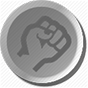
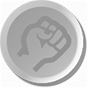
Add hover images on touch controls

diff --git a/src/client/lib/screen/training.js b/src/client/lib/screen/training.js
@@ -90,7 +90,7 @@ TrainingScreen.prototype.loadTouchControls = function () {
 
 	this.moveLeftButton = new Button({
 		image: './img/controls/left.png',
-		hoverImage: './img/controls/left.png',
+		hoverImage: './img/controls/left_hover.png',
 		location: function() {
 			var height = self.moveLeftButton.getActiveImage().height;
 			var width = self.moveLeftButton.getActiveImage().width;
@@ -100,24 +100,27 @@ TrainingScreen.prototype.loadTouchControls = function () {
 		},
 		touchStartEvent: function () {
 			moveLeftHandler.start();
+			self.moveLeftButton.setActiveImage(self.moveLeftButton.getHoverImage());
 		},
 		touchEndEvent: function () {
 			moveLeftHandler.stop();
 			InputCollection.onKeyup({
 				keyCode: keys.LEFT
 			});
+			self.moveLeftButton.setActiveImage(self.moveLeftButton.getImage());
 		},
 		touchResetEvent: function () {
 			moveLeftHandler.stop();
 			InputCollection.onKeyup({
 				keyCode: keys.LEFT
 			});
+			self.moveLeftButton.setActiveImage(self.moveLeftButton.getImage());
 		}
 	});
 
 	this.moveRightButton = new Button({
 		image: './img/controls/right.png',
-		hoverImage: './img/controls/right.png',
+		hoverImage: './img/controls/right_hover.png',
 		location: function() {
 			var relativeWidth = self.moveLeftButton.getActiveImage().width;
 			var location = self.moveLeftButton.getLocation();
@@ -128,24 +131,27 @@ TrainingScreen.prototype.loadTouchControls = function () {
 		},
 		touchStartEvent: function () {
 			moveRightHandler.start();
+			self.moveRightButton.setActiveImage(self.moveRightButton.getHoverImage());
 		},
 		touchEndEvent: function () {
 			moveRightHandler.stop();
 			InputCollection.onKeyup({
 				keyCode: keys.RIGHT
 			});
+			self.moveRightButton.setActiveImage(self.moveRightButton.getImage());
 		},
 		touchResetEvent: function () {
 			moveRightHandler.stop();
 			InputCollection.onKeyup({
 				keyCode: keys.RIGHT
 			});
+			self.moveRightButton.setActiveImage(self.moveRightButton.getImage());
 		}
 	});
 
 	this.defendButton = new Button({
 		image: './img/controls/defend.png',
-		hoverImage: './img/controls/defend.png',
+		hoverImage: './img/controls/defend_hover.png',
 		location: function() {
 			var relativeHeight = self.moveLeftButton.getActiveImage().height;
 			var location = self.moveLeftButton.getLocation();
@@ -156,24 +162,27 @@ TrainingScreen.prototype.loadTouchControls = function () {
 		},
 		touchStartEvent: function () {
 			defendHandler.start();
+			self.defendButton.setActiveImage(self.defendButton.getHoverImage());
 		},
 		touchEndEvent: function () {
 			defendHandler.stop();
 			InputCollection.onKeyup({
 				keyCode: keys.DEFEND
 			});
+			self.defendButton.setActiveImage(self.defendButton.getImage());
 		},
 		touchResetEvent: function () {
 			defendHandler.stop();
 			InputCollection.onKeyup({
 				keyCode: keys.DEFEND
 			});
+			self.defendButton.setActiveImage(self.defendButton.getImage());
 		}
 	});
 
 	this.jumpButton = new Button({
 		image: './img/controls/jump.png',
-		hoverImage: './img/controls/jump.png',
+		hoverImage: './img/controls/jump_hover.png',
 		location: function() {
 			var relativeHeight = self.kickButton.getActiveImage().height;
 			var width = self.jumpButton.getActiveImage().width;
@@ -187,20 +196,23 @@ TrainingScreen.prototype.loadTouchControls = function () {
 			InputCollection.onKeydown({
 				keyCode: keys.JUMP
 			});
+			self.jumpButton.setActiveImage(self.jumpButton.getHoverImage());
 		},
 		touchEndEvent: function () {
 			InputCollection.onKeyup({
 				keyCode: keys.JUMP
 			});
+			self.jumpButton.setActiveImage(self.jumpButton.getImage());
 		},
 		touchResetEvent: function () {
 			InputCollection.pressed[keys.JUMP] = false;
+			self.jumpButton.setActiveImage(self.jumpButton.getImage());
 		}
 	});
 
 	this.punchButton = new Button({
 		image: './img/controls/punch.png',
-		hoverImage: './img/controls/punch.png',
+		hoverImage: './img/controls/punch_hover.png',
 		location: function() {
 			var relativeHeight = self.kickButton.getActiveImage().height;
 			var location = self.kickButton.getLocation();
@@ -213,20 +225,23 @@ TrainingScreen.prototype.loadTouchControls = function () {
 			InputCollection.onKeydown({
 				keyCode: keys.PUNCH
 			});
+			self.punchButton.setActiveImage(self.punchButton.getHoverImage());
 		},
 		touchEndEvent: function () {
 			InputCollection.onKeyup({
 				keyCode: keys.PUNCH
 			});
+			self.punchButton.setActiveImage(self.punchButton.getImage());
 		},
 		touchResetEvent: function () {
 			InputCollection.pressed[keys.PUNCH] = false;
+			self.punchButton.setActiveImage(self.punchButton.getImage());
 		}
 	});
 
 	this.kickButton = new Button({
 		image: './img/controls/kick.png',
-		hoverImage: './img/controls/kick.png',
+		hoverImage: './img/controls/kick_hover.png',
 		location: function() {
 			var height = self.kickButton.getActiveImage().height;
 			var width = self.kickButton.getActiveImage().width;
@@ -238,14 +253,17 @@ TrainingScreen.prototype.loadTouchControls = function () {
 			InputCollection.onKeydown({
 				keyCode: keys.KICK
 			});
+			self.kickButton.setActiveImage(self.kickButton.getHoverImage());
 		},
 		touchEndEvent: function () {
 			InputCollection.onKeyup({
 				keyCode: keys.KICK
 			});
+			self.kickButton.setActiveImage(self.kickButton.getImage());
 		},
 		touchResetEvent: function () {
 			InputCollection.pressed[keys.KICK] = false;
+			self.kickButton.setActiveImage(self.kickButton.getImage());
 		}
 	});
 };

diff --git a/src/client/lib/screen/stage.js b/src/client/lib/screen/stage.js
@@ -196,7 +196,7 @@ StageScreen.prototype.loadTouchControls = function () {
 
 	this.moveLeftButton = new Button({
 		image: './img/controls/left.png',
-		hoverImage: './img/controls/left.png',
+		hoverImage: './img/controls/left_hover.png',
 		location: function() {
 			var height = self.moveLeftButton.getActiveImage().height;
 			var width = self.moveLeftButton.getActiveImage().width;
@@ -206,24 +206,27 @@ StageScreen.prototype.loadTouchControls = function () {
 		},
 		touchStartEvent: function () {
 			moveLeftHandler.start();
+			self.moveLeftButton.setActiveImage(self.moveLeftButton.getHoverImage());
 		},
 		touchEndEvent: function () {
 			moveLeftHandler.stop();
 			InputCollection.onKeyup({
 				keyCode: keys.LEFT
 			});
+			self.moveLeftButton.setActiveImage(self.moveLeftButton.getImage());
 		},
 		touchResetEvent: function () {
 			moveLeftHandler.stop();
 			InputCollection.onKeyup({
 				keyCode: keys.LEFT
 			});
+			self.moveLeftButton.setActiveImage(self.moveLeftButton.getImage());
 		}
 	});
 
 	this.moveRightButton = new Button({
 		image: './img/controls/right.png',
-		hoverImage: './img/controls/right.png',
+		hoverImage: './img/controls/right_hover.png',
 		location: function() {
 			var relativeWidth = self.moveLeftButton.getActiveImage().width;
 			var location = self.moveLeftButton.getLocation();
@@ -234,24 +237,27 @@ StageScreen.prototype.loadTouchControls = function () {
 		},
 		touchStartEvent: function () {
 			moveRightHandler.start();
+			self.moveRightButton.setActiveImage(self.moveRightButton.getHoverImage());
 		},
 		touchEndEvent: function () {
 			moveRightHandler.stop();
 			InputCollection.onKeyup({
 				keyCode: keys.RIGHT
 			});
+			self.moveRightButton.setActiveImage(self.moveRightButton.getImage());
 		},
 		touchResetEvent: function () {
 			moveRightHandler.stop();
 			InputCollection.onKeyup({
 				keyCode: keys.RIGHT
 			});
+			self.moveRightButton.setActiveImage(self.moveRightButton.getImage());
 		}
 	});
 
 	this.defendButton = new Button({
 		image: './img/controls/defend.png',
-		hoverImage: './img/controls/defend.png',
+		hoverImage: './img/controls/defend_hover.png',
 		location: function() {
 			var relativeHeight = self.moveLeftButton.getActiveImage().height;
 			var location = self.moveLeftButton.getLocation();
@@ -262,24 +268,27 @@ StageScreen.prototype.loadTouchControls = function () {
 		},
 		touchStartEvent: function () {
 			defendHandler.start();
+			self.defendButton.setActiveImage(self.defendButton.getHoverImage());
 		},
 		touchEndEvent: function () {
 			defendHandler.stop();
 			InputCollection.onKeyup({
 				keyCode: keys.DEFEND
 			});
+			self.defendButton.setActiveImage(self.defendButton.getImage());
 		},
 		touchResetEvent: function () {
 			defendHandler.stop();
 			InputCollection.onKeyup({
 				keyCode: keys.DEFEND
 			});
+			self.defendButton.setActiveImage(self.defendButton.getImage());
 		}
 	});
 
 	this.jumpButton = new Button({
 		image: './img/controls/jump.png',
-		hoverImage: './img/controls/jump.png',
+		hoverImage: './img/controls/jump_hover.png',
 		location: function() {
 			var relativeHeight = self.kickButton.getActiveImage().height;
 			var width = self.jumpButton.getActiveImage().width;
@@ -293,20 +302,23 @@ StageScreen.prototype.loadTouchControls = function () {
 			InputCollection.onKeydown({
 				keyCode: keys.JUMP
 			});
+			self.jumpButton.setActiveImage(self.jumpButton.getHoverImage());
 		},
 		touchEndEvent: function () {
 			InputCollection.onKeyup({
 				keyCode: keys.JUMP
 			});
+			self.jumpButton.setActiveImage(self.jumpButton.getImage());
 		},
 		touchResetEvent: function () {
 			InputCollection.pressed[keys.JUMP] = false;
+			self.jumpButton.setActiveImage(self.jumpButton.getImage());
 		}
 	});
 
 	this.punchButton = new Button({
 		image: './img/controls/punch.png',
-		hoverImage: './img/controls/punch.png',
+		hoverImage: './img/controls/punch_hover.png',
 		location: function() {
 			var relativeHeight = self.kickButton.getActiveImage().height;
 			var location = self.kickButton.getLocation();
@@ -319,20 +331,23 @@ StageScreen.prototype.loadTouchControls = function () {
 			InputCollection.onKeydown({
 				keyCode: keys.PUNCH
 			});
+			self.punchButton.setActiveImage(self.punchButton.getHoverImage());
 		},
 		touchEndEvent: function () {
 			InputCollection.onKeyup({
 				keyCode: keys.PUNCH
 			});
+			self.punchButton.setActiveImage(self.punchButton.getImage());
 		},
 		touchResetEvent: function () {
 			InputCollection.pressed[keys.PUNCH] = false;
+			self.punchButton.setActiveImage(self.punchButton.getImage());
 		}
 	});
 
 	this.kickButton = new Button({
 		image: './img/controls/kick.png',
-		hoverImage: './img/controls/kick.png',
+		hoverImage: './img/controls/kick_hover.png',
 		location: function() {
 			var height = self.kickButton.getActiveImage().height;
 			var width = self.kickButton.getActiveImage().width;
@@ -344,14 +359,17 @@ StageScreen.prototype.loadTouchControls = function () {
 			InputCollection.onKeydown({
 				keyCode: keys.KICK
 			});
+			self.kickButton.setActiveImage(self.kickButton.getHoverImage());
 		},
 		touchEndEvent: function () {
 			InputCollection.onKeyup({
 				keyCode: keys.KICK
 			});
+			self.kickButton.setActiveImage(self.kickButton.getImage());
 		},
 		touchResetEvent: function () {
 			InputCollection.pressed[keys.KICK] = false;
+			self.kickButton.setActiveImage(self.kickButton.getImage());
 		}
 	});
 };
